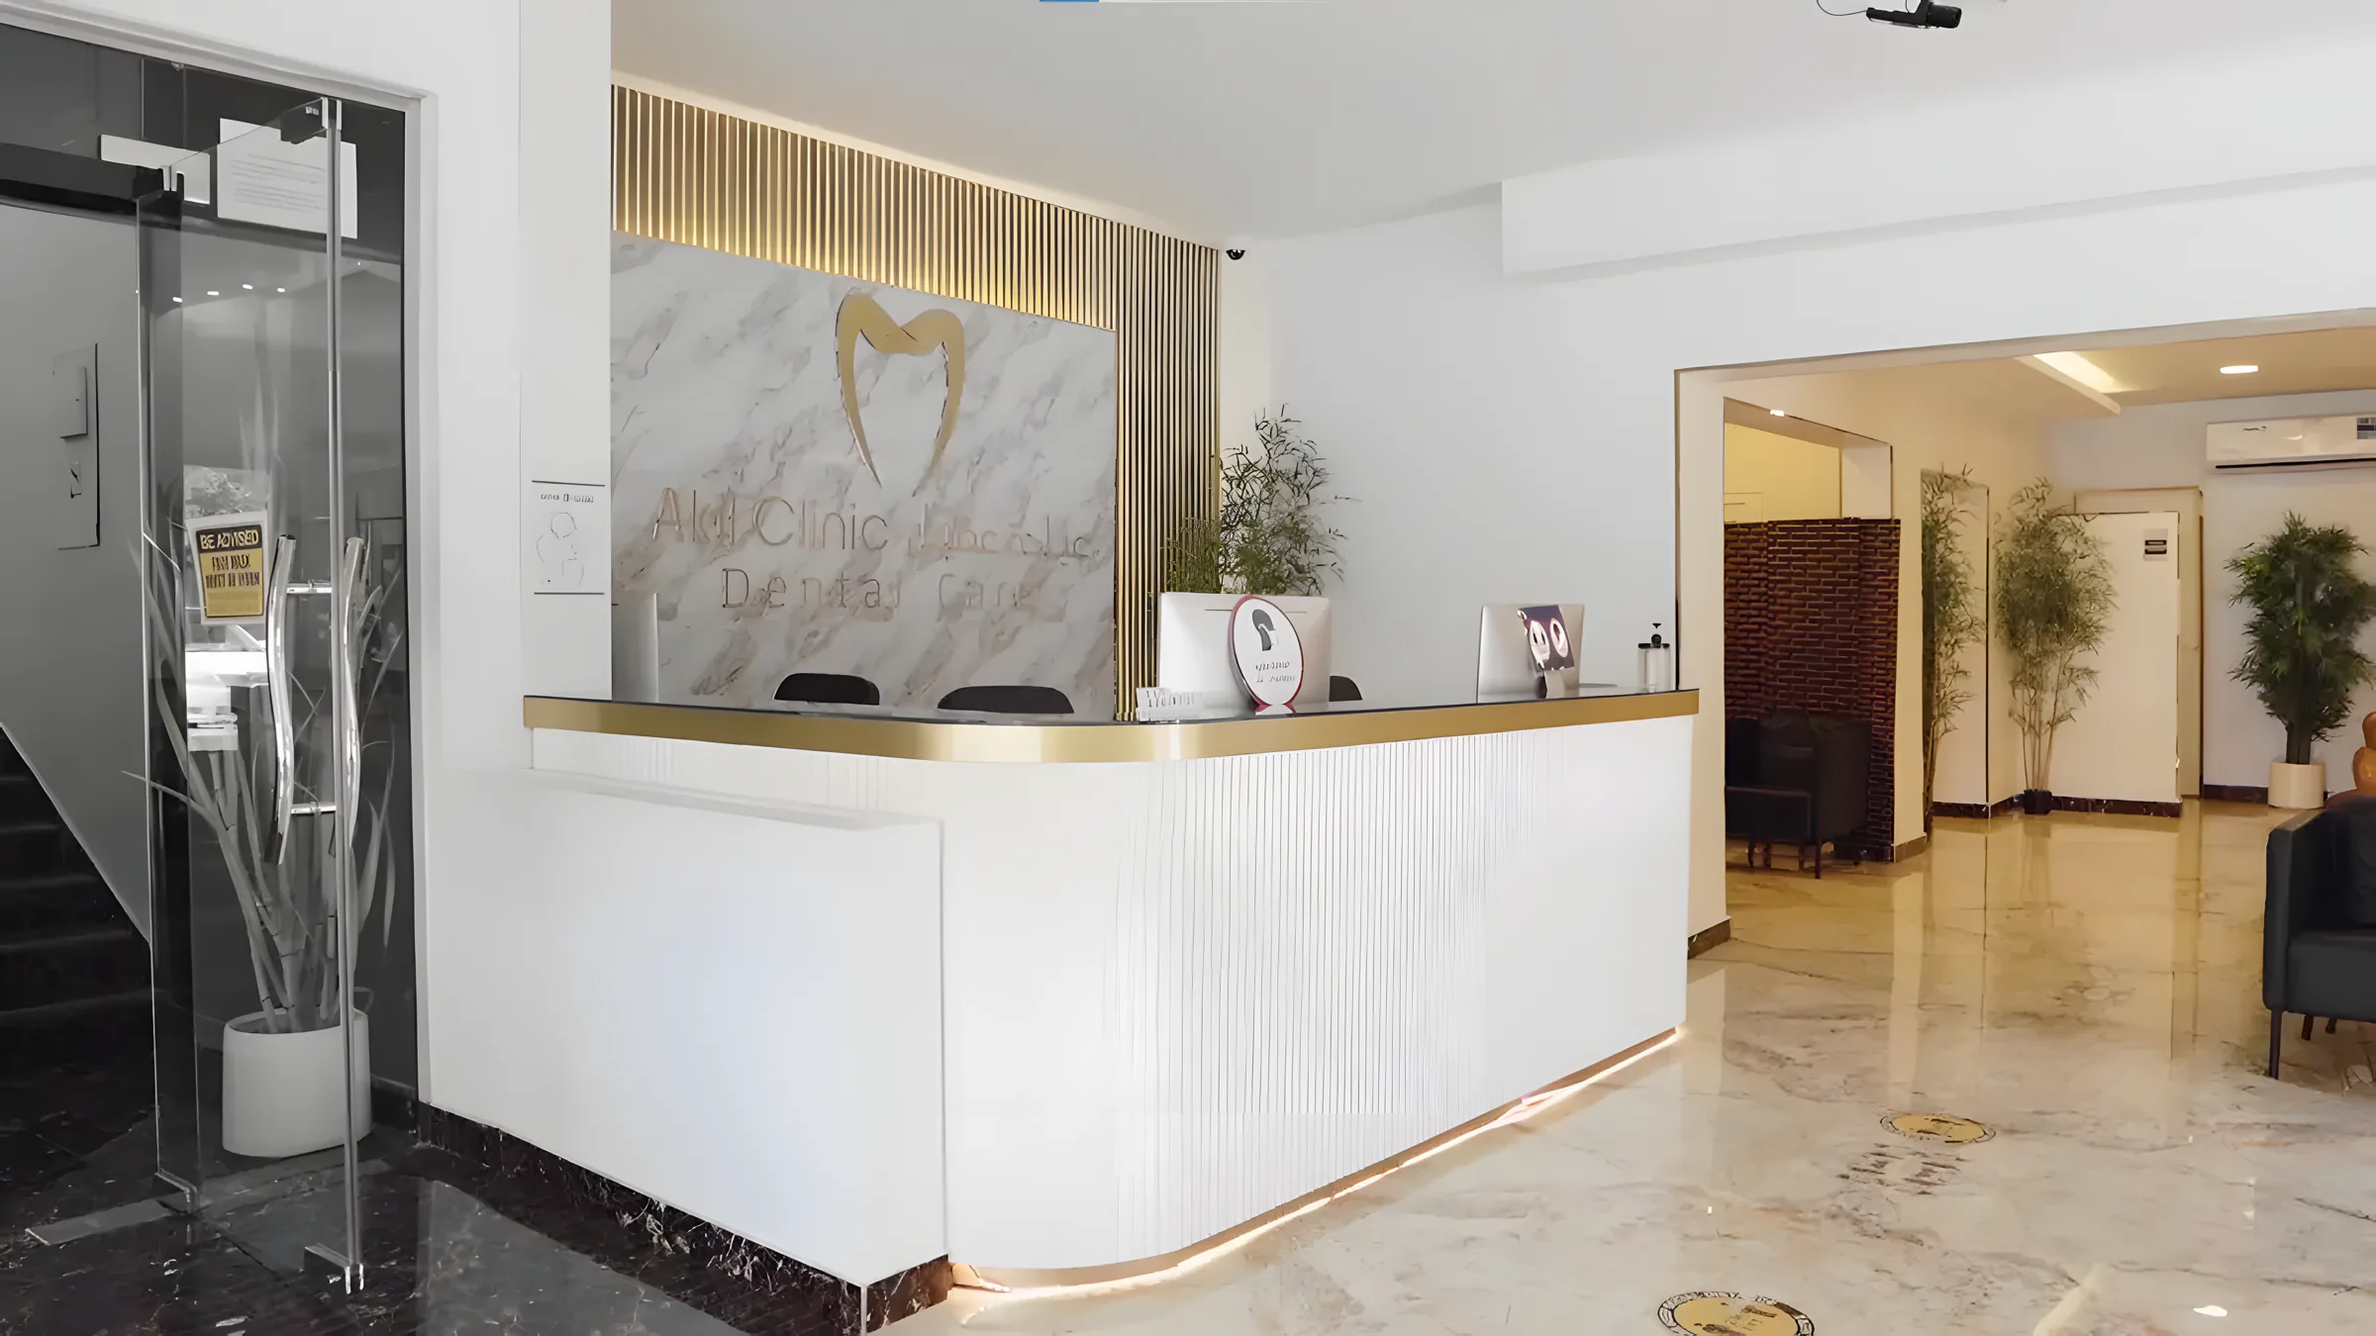
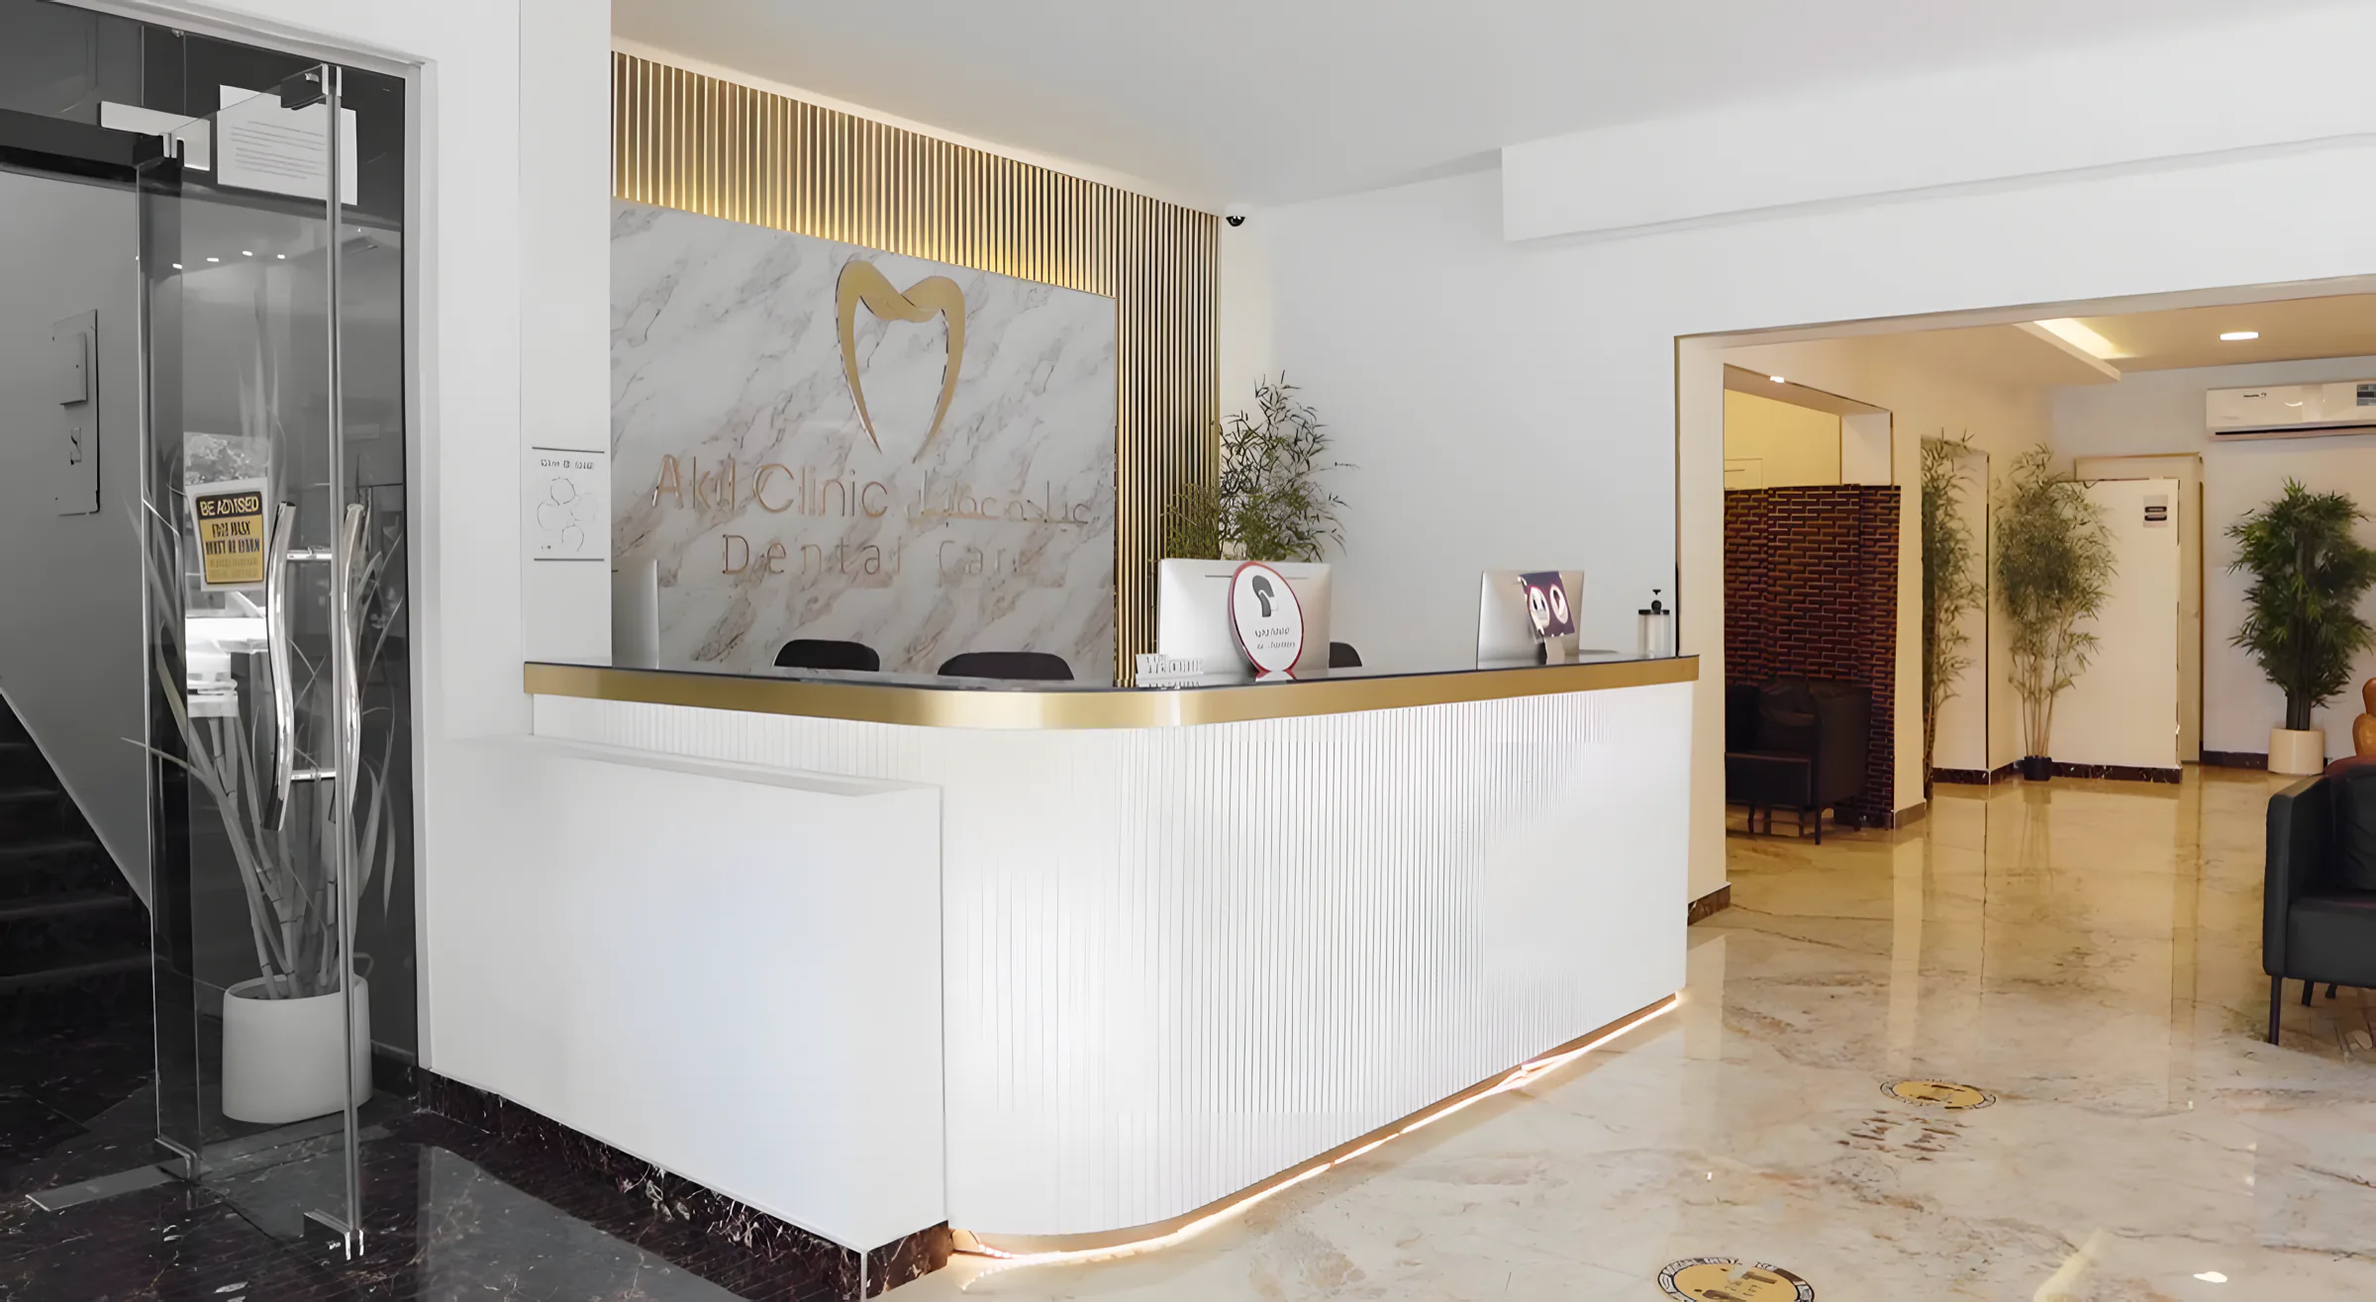
akil-clinic-al-ain: round 3 art-direction fixes

diff --git a/akil-clinic-al-ain/ar/index.html b/akil-clinic-al-ain/ar/index.html
@@ -41,7 +41,7 @@
   <div class="hero__frame">
     <h1 class="hero__name"><span class="k-mask"><span class="k-split__word" style="--i:0">عيادة</span></span><span class="k-mask"><span class="k-split__word" style="--i:1">عقيل</span></span></h1>
     <p class="hero__ar k-split__fade" style="--i:1"><span lang="en" style="font:400 clamp(1.6rem,3vw,2.5rem)/1.2 var(--body);letter-spacing:-.02em">Akil Clinic</span><small>لطب الأسنان · شارع خليفة، العين</small></p>
-    <figure class="hero__photo k-split__photo"><img src="../img/reception.webp" alt="مكتب الاستقبال في عيادة عقيل وشعار السن الذهبي على جدار رخامي" width="2400" height="1350" fetchpriority="high"><figcaption>الاستقبال، عيادة عقيل</figcaption></figure>
+    <figure class="hero__photo k-split__photo"><img src="../img/reception.webp" alt="مكتب الاستقبال في عيادة عقيل وشعار السن الذهبي على جدار رخامي" width="2400" height="1316" fetchpriority="high"><figcaption>الاستقبال، عيادة عقيل</figcaption></figure>
     <div class="hero__acts k-split__fade" style="--i:3">
       <a class="k-btn" data-k-magnetic="0.25" href="tel:+97137555060">اتصل <bdi dir="ltr">03 755 5060</bdi> <span class="k-arrow" aria-hidden="true">&rarr;</span></a>
       <a class="hero__more k-link" href="services.html">العلاجات</a>
@@ -90,7 +90,6 @@
   <img class="doc__mark" src="../img/mark-white.png" alt="" width="400" height="400" loading="lazy">
   <div class="wrap doc__grid">
     <div>
-      <span class="tag">طبيبك</span>
       <h2 id="doc-h" class="doc__name" data-reveal="lines">د. محمد عقيل</h2>
       <p class="doc__name" data-reveal><small>دكتوراه في جراحة الأسنان (DDS). اختصاصي زراعة أسنان معتمد، وعضو الأكاديمية الأمريكية لزراعة الأسنان (AAID). طب الأسنان العام والتجميلي والزراعة.</small></p>
       <p class="doc__p" data-reveal>عمل قبل ذلك عضو هيئة تدريس في كلية طب الأسنان بجامعة عجمان للعلوم والتكنولوجيا لأكثر من خمس سنوات، وأشرف على أكثر من ٣٠٠ طالب طب أسنان.</p>
@@ -150,12 +149,11 @@
       <div class="k-drag__btns"><button type="button" data-k-drag-prev aria-label="الصورة السابقة">&larr;</button><button type="button" data-k-drag-next aria-label="الصورة التالية">&rarr;</button></div>
     </div>
     <div class="k-drag__track" tabindex="0" role="region" aria-label="صور العيادة، مرّر أفقياً">
-      <div class="k-drag__card"><div class="k-drag__fig"><img src="../img/lounge.webp" alt="صالة جلوس بكراسي جلدية" loading="lazy" draggable="false"></div><div class="k-drag__meta"><h3>الصالة</h3><span>01 / 06</span></div></div>
-      <div class="k-drag__card"><div class="k-drag__fig"><img src="../img/treatment-chair.jpg" alt="غرفة علاج فيها كرسي الأسنان وشاشة على الجدار" loading="lazy" draggable="false"></div><div class="k-drag__meta"><h3>غرفة العلاج</h3><span>02 / 06</span></div></div>
-      <div class="k-drag__card"><div class="k-drag__fig"><img src="../img/xray-room.webp" alt="غرفة الأشعة" loading="lazy" draggable="false"></div><div class="k-drag__meta"><h3>غرفة الأشعة</h3><span>03 / 06</span></div></div>
-      <div class="k-drag__card"><div class="k-drag__fig"><img src="../img/waiting.webp" alt="منطقة الانتظار" loading="lazy" draggable="false"></div><div class="k-drag__meta"><h3>الانتظار</h3><span>04 / 06</span></div></div>
-      <div class="k-drag__card"><div class="k-drag__fig"><img src="../img/garden.webp" alt="حديقة الألعاب" loading="lazy" draggable="false"></div><div class="k-drag__meta"><h3>حديقة الألعاب</h3><span>05 / 06</span></div></div>
-      <div class="k-drag__card"><div class="k-drag__fig"><img src="../img/clinic-front.webp" alt="واجهة عيادة عقيل" loading="lazy" draggable="false"></div><div class="k-drag__meta"><h3>العيادة</h3><span>06 / 06</span></div></div>
+      <div class="k-drag__card"><div class="k-drag__fig"><img src="../img/clinic-front.webp" alt="واجهة عيادة عقيل في شارع خليفة" loading="lazy" draggable="false"></div><div class="k-drag__meta"><h3>المدخل، شارع خليفة</h3><span>01 / 05</span></div></div>
+      <div class="k-drag__card"><div class="k-drag__fig"><img src="../img/sign.webp" alt="لوحة عيادة عقيل: زراعة الأسنان، تقويم الأسنان، طب أسنان الأطفال، تجميل وجراحة الأسنان" loading="lazy" draggable="false"></div><div class="k-drag__meta"><h3>اللوحة</h3><span>02 / 05</span></div></div>
+      <div class="k-drag__card"><div class="k-drag__fig"><img src="../img/lounge.webp" alt="صالة جلوس بكراسي جلدية على أرضية رخام" loading="lazy" draggable="false"></div><div class="k-drag__meta"><h3>الصالة</h3><span>03 / 05</span></div></div>
+      <div class="k-drag__card"><div class="k-drag__fig"><img src="../img/logo-wall.webp" alt="جدار الاستقبال الرخامي وعليه اسم العيادة بالذهبي" loading="lazy" draggable="false"></div><div class="k-drag__meta"><h3>جدار الاستقبال</h3><span>04 / 05</span></div></div>
+      <div class="k-drag__card"><div class="k-drag__fig"><img src="../img/surgery-counter.jpg" alt="طاولة العمل في غرفة العلاج مع شاشة الطبيب" loading="lazy" draggable="false"></div><div class="k-drag__meta"><h3>غرفة العلاج</h3><span>05 / 05</span></div></div>
     </div>
     <div class="k-drag__bar" aria-hidden="true"><i></i></div>
   </div>

diff --git a/akil-clinic-al-ain/index.html b/akil-clinic-al-ain/index.html
@@ -42,7 +42,7 @@
   <div class="hero__frame">
     <h1 class="hero__name"><span class="k-mask"><span class="k-split__word" style="--i:0">Akil</span></span><span class="k-mask"><span class="k-split__word" style="--i:1">Clinic</span></span></h1>
     <p class="hero__ar k-split__fade" style="--i:1"><span lang="ar">عيادة عقيل</span><small>Dental Care · Khalifa Street, Al Ain</small></p>
-    <figure class="hero__photo k-split__photo"><img src="img/reception.webp" alt="The reception desk at Akil Clinic, with the gold tooth logo on a marble wall" width="2400" height="1350" fetchpriority="high"><figcaption>Reception, Akil Clinic</figcaption></figure>
+    <figure class="hero__photo k-split__photo"><img src="img/reception.webp" alt="The reception desk at Akil Clinic, with the gold tooth logo on a marble wall" width="2400" height="1316" fetchpriority="high"><figcaption>Reception, Akil Clinic</figcaption></figure>
     <div class="hero__acts k-split__fade" style="--i:3">
       <a class="k-btn" data-k-magnetic="0.25" href="tel:+97137555060">Call 03 755 5060 <span class="k-arrow" aria-hidden="true">&rarr;</span></a>
       <a class="hero__more k-link" href="services.html">See treatments</a>
@@ -95,7 +95,6 @@
   <img class="doc__mark" src="img/mark-white.png" alt="" width="400" height="400" loading="lazy">
   <div class="wrap doc__grid">
     <div>
-      <span class="tag">Your dentist</span>
       <h2 id="doc-h" class="doc__name" data-reveal="lines">Dr. Mohamed Akil, DDS</h2>
       <p class="doc__name" data-reveal><small>Certified Oral Implantologist and Member of the American Academy of Implant Dentistry (AAID). General, cosmetic and implant dentistry.</small></p>
       <p class="doc__p" data-reveal>Earlier, he taught for more than five years at the School of Dentistry of Ajman University of Science and Technology, supervising over 300 pre-doctoral dental students. <a class="k-link k-link--under" href="about.html#dr-akil">Read his full profile</a></p>
@@ -157,12 +156,11 @@
       <div class="k-drag__btns"><button type="button" data-k-drag-prev aria-label="Previous photo">&larr;</button><button type="button" data-k-drag-next aria-label="Next photo">&rarr;</button></div>
     </div>
     <div class="k-drag__track" tabindex="0" role="region" aria-label="Clinic photos, scroll sideways">
-      <div class="k-drag__card"><div class="k-drag__fig"><img src="img/lounge.webp" alt="Lounge with leather chairs on a marble floor" loading="lazy" draggable="false"></div><div class="k-drag__meta"><h3>Lounge</h3><span>01 / 06</span></div></div>
-      <div class="k-drag__card"><div class="k-drag__fig"><img src="img/treatment-chair.jpg" alt="Treatment room with the dental chair and a screen on the wall" loading="lazy" draggable="false"></div><div class="k-drag__meta"><h3>Treatment room</h3><span>02 / 06</span></div></div>
-      <div class="k-drag__card"><div class="k-drag__fig"><img src="img/xray-room.webp" alt="X-ray room with a panoramic X-ray unit" loading="lazy" draggable="false"></div><div class="k-drag__meta"><h3>X-ray room</h3><span>03 / 06</span></div></div>
-      <div class="k-drag__card"><div class="k-drag__fig"><img src="img/waiting.webp" alt="Waiting area with black armchairs" loading="lazy" draggable="false"></div><div class="k-drag__meta"><h3>Waiting area</h3><span>04 / 06</span></div></div>
-      <div class="k-drag__card"><div class="k-drag__fig"><img src="img/garden.webp" alt="Play garden with slide and swings" loading="lazy" draggable="false"></div><div class="k-drag__meta"><h3>Play garden</h3><span>05 / 06</span></div></div>
-      <div class="k-drag__card"><div class="k-drag__fig"><img src="img/clinic-front.webp" alt="The front of Akil Clinic with its sign" loading="lazy" draggable="false"></div><div class="k-drag__meta"><h3>The clinic</h3><span>06 / 06</span></div></div>
+      <div class="k-drag__card"><div class="k-drag__fig"><img src="img/clinic-front.webp" alt="The front of Akil Clinic on Khalifa Street, with its sign" loading="lazy" draggable="false"></div><div class="k-drag__meta"><h3>Khalifa Street entrance</h3><span>01 / 05</span></div></div>
+      <div class="k-drag__card"><div class="k-drag__fig"><img src="img/sign.webp" alt="The Akil Clinic sign listing implant dentistry, orthodontics, paediatric dentistry and cosmetic and dental surgery" loading="lazy" draggable="false"></div><div class="k-drag__meta"><h3>The sign</h3><span>02 / 05</span></div></div>
+      <div class="k-drag__card"><div class="k-drag__fig"><img src="img/lounge.webp" alt="Lounge with leather chairs on a marble floor" loading="lazy" draggable="false"></div><div class="k-drag__meta"><h3>Lounge</h3><span>03 / 05</span></div></div>
+      <div class="k-drag__card"><div class="k-drag__fig"><img src="img/logo-wall.webp" alt="The marble reception wall with the gold Akil Clinic Dental Care lettering" loading="lazy" draggable="false"></div><div class="k-drag__meta"><h3>Reception wall</h3><span>04 / 05</span></div></div>
+      <div class="k-drag__card"><div class="k-drag__fig"><img src="img/surgery-counter.jpg" alt="Treatment room work counter with the dentist's screen and stools" loading="lazy" draggable="false"></div><div class="k-drag__meta"><h3>Treatment room</h3><span>05 / 05</span></div></div>
     </div>
     <div class="k-drag__bar" aria-hidden="true"><i></i></div>
   </div>

diff --git a/akil-clinic-al-ain/site.css b/akil-clinic-al-ain/site.css
@@ -591,3 +591,25 @@ html:lang(ar) h3{font-weight:600}
 .belief__cols{display:grid;gap:24px}
 .k-visit__ins a{white-space:nowrap}
 @media (max-width:700px){.belief__ph{max-width:300px}}
+
+/* ---------- round 3 ---------- */
+/* hero: re-upscaled from the 1280px Google Maps original (top rows trimmed); mobile crop kept clear of the top edge */
+.hero__photo img{object-position:34% 56%}
+@media (min-width:980px){.hero__photo img{object-position:50% 46%}}
+/* doctor panel: no label above the name, ~40% less air above the heading */
+.doc{padding-top:clamp(48px,6.6vw,100px)}
+/* about: lounge photo beside the title in the first screen, mission text below */
+.pg-hero--ab{display:grid;gap:28px;padding-block:clamp(28px,4vw,56px) clamp(50px,6vw,90px)}
+.ab-ph--hero{margin:0;aspect-ratio:4/5;max-height:72svh;width:100%}
+.ab-ph--hero img{object-position:50% 78%}
+@media (min-width:980px){
+  .pg-hero--ab{grid-template-columns:repeat(12,minmax(0,1fr));column-gap:clamp(20px,2.4vw,36px);align-items:end}
+  .pg-hero__txt{grid-column:1 / 8;align-self:center}
+  .ab-ph--hero{grid-column:8 / -1;max-height:calc(100svh - 150px);justify-self:end}
+}
+@media (max-width:979px){.ab-ph--hero{aspect-ratio:4/3}}
+.ab-split--solo{grid-template-columns:none}
+@media (min-width:980px){.ab-split--solo .ab-text{max-width:none;grid-template-columns:repeat(12,minmax(0,1fr));column-gap:clamp(20px,2.4vw,36px)}
+  .ab-split--solo .ab-text p{grid-column:5 / 12;max-width:40em}
+  .ab-split--solo .ab-text p.big{grid-column:1 / 9;max-width:none}}
+@media (min-width:980px){.hero__photo{max-width:1000px;justify-self:end;width:100%}}

diff --git a/akil-clinic-al-ain/about.html b/akil-clinic-al-ain/about.html
@@ -36,13 +36,15 @@
 </header>
 
 <main id="main">
-<section class="wrap pg-hero" aria-label="About">
+<section class="wrap pg-hero pg-hero--ab" aria-label="About">
+  <div class="pg-hero__txt">
   <h1><span class="k-mask"><span class="k-split__word" style="--i:0">About the</span></span><span class="k-mask"><span class="k-split__word" style="--i:1">clinic</span></span></h1>
   <p class="lede k-split__fade" style="--i:2">A dental centre for the whole family, in the heart of Al Ain.</p>
+  </div>
+  <figure class="ab-ph ab-ph--hero" data-reveal="clip"><img src="img/lounge.webp" alt="The lounge at Akil Clinic, leather chairs on a marble floor" width="1500" height="2000" fetchpriority="high"></figure>
 </section>
 
-<section class="wrap ab-split" aria-label="Our clinic">
-  <div class="ab-ph" data-reveal="clip"><img src="img/lounge.webp" alt="The lounge at Akil Clinic, leather chairs on a marble floor" width="1500" height="2000" loading="lazy"></div>
+<section class="wrap ab-split ab-split--solo" aria-label="Our clinic">
   <div class="ab-text" data-reveal-stagger="110">
     <p class="big" data-reveal>We want to change the way people feel about going to the dentist.</p>
     <p data-reveal>Akil Clinic is a boutique dental centre on Khalifa Street, run to international standards. We make patients feel at home, and we do everything we can so that every patient leaves satisfied and smiling.</p>
